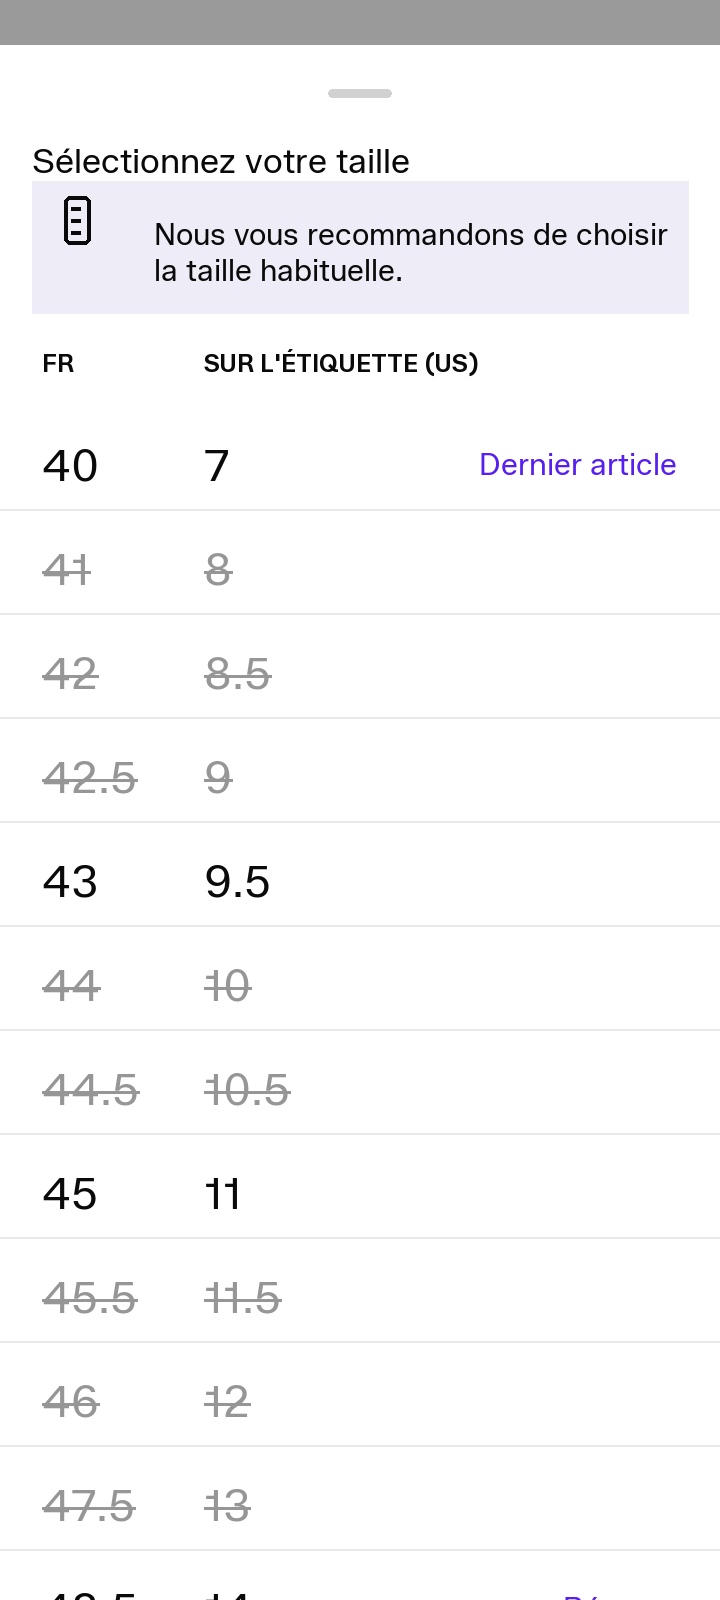
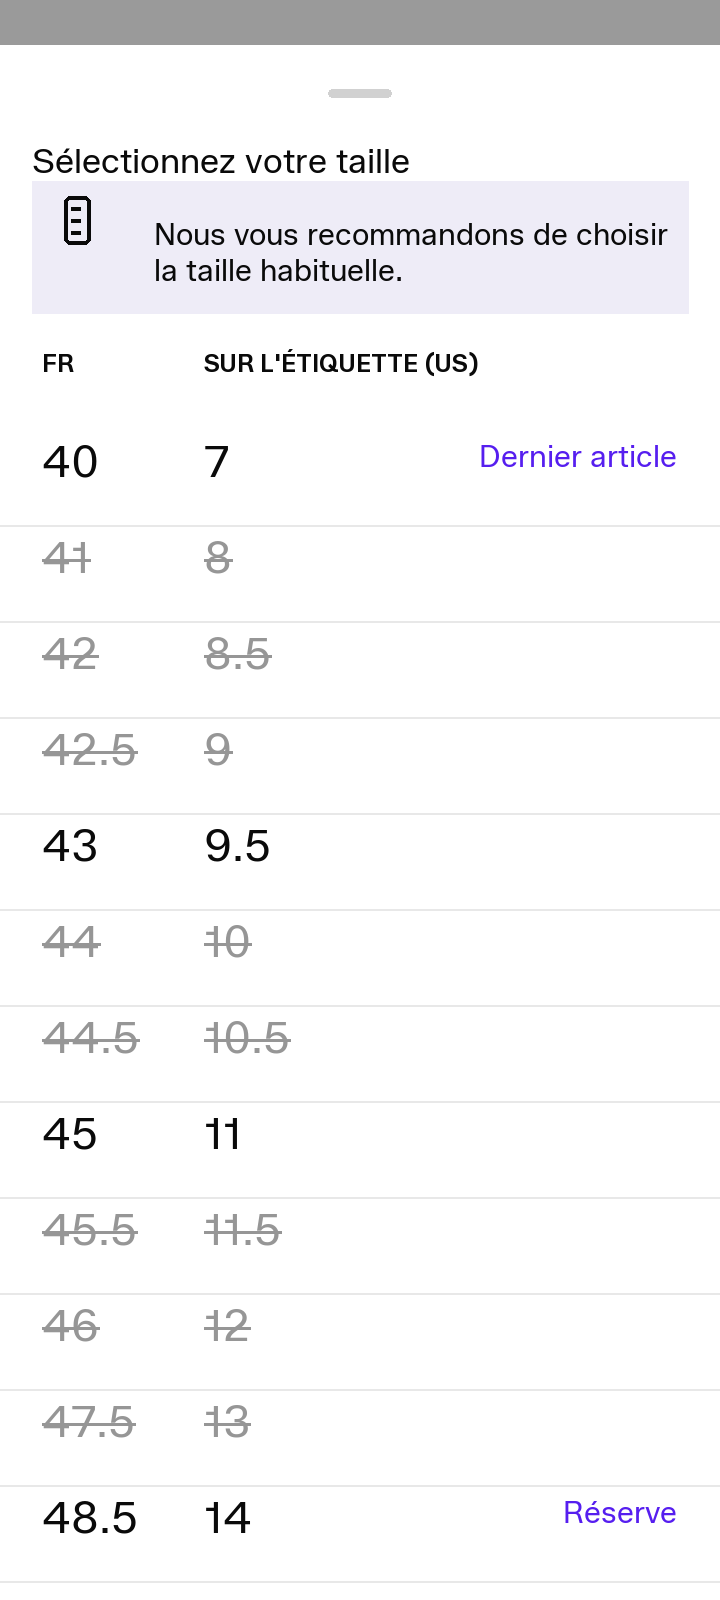
design(cardproduit): feuille de taille — les 12 lignes tiennent à l'écran (96px/ligne), dernier numéro visible

diff --git a/docs/design/cardproduit/build_complet_v12.py b/docs/design/cardproduit/build_complet_v12.py
@@ -243,6 +243,7 @@ SIZES = [("40", "7", "last"), ("41", "8", "out"), ("42", "8.5", "out"), ("42.5",
          ("43", "9.5", None), ("44", "10", "out"), ("44.5", "10.5", "out"), ("45", "11", None),
          ("45.5", "11.5", "out"), ("46", "12", "out"), ("47.5", "13", "out"), ("48.5", "14", "reserved")]
 STATE = {"last": "Dernier article", "reserved": "Réserve"}
+ROW_TOP, ROW_H = 430, 96
 
 def screen_sheet():
     base = screen_top()
@@ -264,10 +265,12 @@ def screen_sheet():
     d.text((204, 348), "SUR L'ÉTIQUETTE (US)", font=lat(24, "SemiBold"), fill=INK)
 
     for i, (fr, us, state) in enumerate(SIZES):
-        top = 430 + i * 104
-        if top > H:
+        # 96px par ligne ⇒ les 12 lignes tiennent entièrement (430 + 12*96 = 1582),
+        # donc le dernier numéro (48.5 / 14) et son état sont visibles.
+        top = ROW_TOP + i * ROW_H
+        if top + ROW_H > H:
             break
-        base_y = top + 8
+        base_y = top + 4
         col = (150, 150, 150) if state == "out" else INK
         d.text((42, base_y), fr, font=lat(44), fill=col)
         d.text((204, base_y), us, font=lat(44), fill=col)
@@ -277,8 +280,8 @@ def screen_sheet():
         if state in STATE:
             label = STATE[state]
             lw = d.textlength(label, font=lat(30))
-            d.text((677 - lw, base_y + 8), label, font=lat(30), fill=VIOLET)
-        d.line([(0, top + 79), (W, top + 79)], fill=HAIR, width=2)
+            d.text((677 - lw, base_y + 4), label, font=lat(30), fill=VIOLET)
+        d.line([(0, top + ROW_H - 1), (W, top + ROW_H - 1)], fill=HAIR, width=2)
     return img
 
 # ── 4. فولسكرين ───────────────────────────────────────────────────────────
